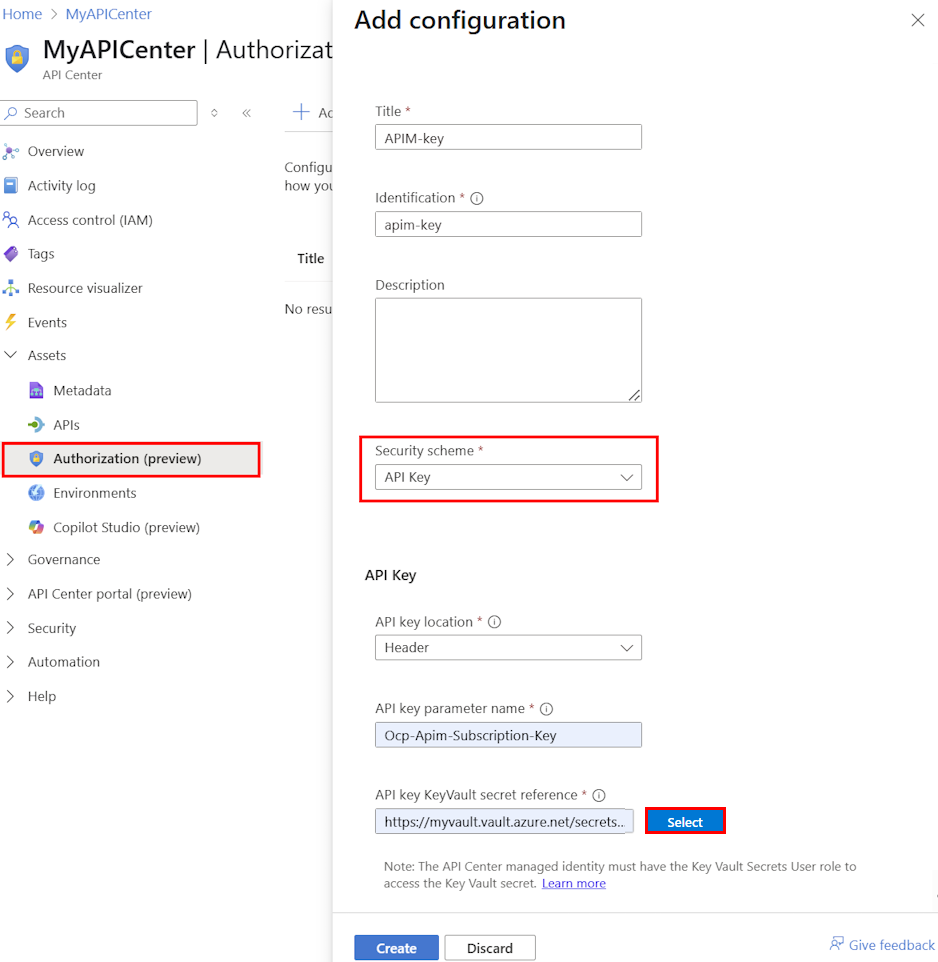
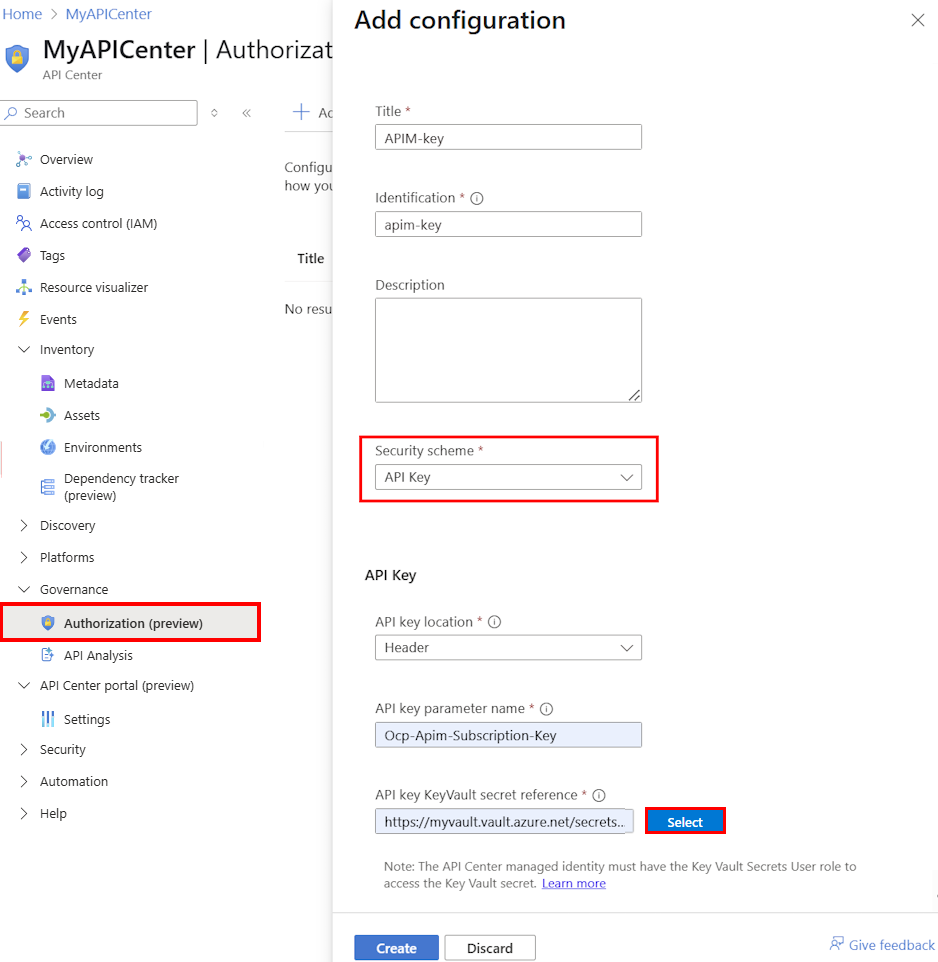
more mods

Changed region(s): [[0.0, 0.1559, 0.2783, 0.842]]

diff --git a/articles/api-center/authorize-api-access.md b/articles/api-center/authorize-api-access.md
@@ -4,7 +4,7 @@ description: Learn how to configure access to APIs in the Azure API Center inven
 
 ms.service: azure-api-center
 ms.topic: how-to
-ms.date: 02/12/2026
+ms.date: 02/24/2026
  
 ms.custom: 
 # Customer intent: As an API program manager, I want to store API authorization information in my API center and enable authorized users to test APIs in the API Center portal.
@@ -50,10 +50,10 @@ To manage the API key securely, store it in Azure Key Vault, and access the key 
 
 ### 2.  Add API key configuration in your API center
 
-1. In the [portal](https://azure.microsoft.com), navigate to your API center.
-1. In the left menu, under **Governance**, select **Authorization (preview)** > **+ Add configuration**.
+1. In the [portal](https://azure.microsoft.com), go to your API center.
+1. In the sidebar menu, under **Governance**, select **Authorization (preview)** > **+ Add configuration**.
 1. In the **Add configuration** page, set the values as follows:
-    <!-- :::image type="content" source="media/authorize-api-access/configure-api-key.png" alt-text="Screenshot of configuring an API key in the portal."::: -->
+    :::image type="content" source="media/authorize-api-access/configure-api-key.png" alt-text="Screenshot of configuring an API key in the portal.":::
 
     | **Setting**            | **Description**                                                                                                                                               |
     |-------------------------|---------------------------------------------------------------------------------------------------------------------------------------------------------------|
@@ -114,7 +114,7 @@ To manage the secret securely, store it in Azure Key Vault, and access the key v
 1. In the left menu, under **Governance**, select **Authorization (preview)** > **+ Add configuration**.
 1. In the **Add configuration** page, set the values as follows:
 
-    <!-- :::image type="content" source="media/authorize-api-access/configure-oauth.png" lightbox="media/authorize-api-access/configure-oauth.png" alt-text="Screenshot of configuring OAuth 2.0 in the portal."::: -->
+    :::image type="content" source="media/authorize-api-access/configure-oauth.png" lightbox="media/authorize-api-access/configure-oauth.png" alt-text="Screenshot of configuring OAuth 2.0 in the portal.":::
 
 
     > [!NOTE]
@@ -168,8 +168,7 @@ You can manage access by specific users or groups in your organization to an API
 > [!TIP]
 > You can also remove users or groups from the access policy. In the **Manage access** page, select **Delete** in the context (...) menu for the user or group.
 
-## Test API in API Center portal
-
+## Test the API in API Center portal
 
 You can use the API Center portal to test an API that you configured for authentication and user access. 
 

diff --git a/articles/api-center/tutorials/configure-environments-deployments.md b/articles/api-center/tutorials/configure-environments-deployments.md
@@ -4,7 +4,7 @@ description: Augment the API inventory in your API center by adding information 
 
 ms.service: azure-api-center
 ms.topic: tutorial
-ms.date: 02/12/2026
+ms.date: 02/24/2026
  
 #customer intent: As the owner of an Azure API center, I want a step by step introduction to adding API environments and deployments to my inventory.
 ---
@@ -34,9 +34,9 @@ Use your API center to keep track of your real-world API environments. For examp
 
 Here you add information about a fictitious Azure API Management environment to your API center. If you prefer, add information about one of your existing environments. Configure both your built-in metadata and any custom metadata that you defined in a [previous tutorial](add-metadata-properties.md).
 
-1. Sign in to the [Azure portal](https://portal.azure.com), then navigate to your API center.
+1. Sign in to the [Azure portal](https://portal.azure.com), then go to your API center.
 
-1. In the sidebar menu, under **Assets**, select **Environments** > **+ New environment**.
+1. In the sidebar menu, under **Inventory**, select **Environments** > **+ New environment**.
 
 1. On the **New environment** page, add the following information. If you previously defined the custom *Line of business* metadata or other metadata assigned to environments, you see them at the bottom of the page.
 
@@ -64,13 +64,13 @@ API center can also help you catalog your API deployments, the runtime environme
 
 Here you add a deployment by associating one of your APIs with the environment you created in the previous section. You configure both built-in metadata and any custom metadata that you defined.
 
-1. In the Azure portal, navigate to your API center.
+1. In the Azure portal, go to your API center.
 
 1. In the sidebar menu, under **Inventory**, select **Assets**.
 
 1. Select an API, for example, the *Conference API*.
 
-1. On the **Conference API** page, under **Details**, select **Deployments** > **+ Add deployment**.
+1. On the **Conference API** page, in the sidebar menu, select **Deployments** > **+ Add deployment**.
 
 1. In the **Add deployment** page, add the following information. If you previously defined the custom *Line of business* metadata or other metadata assigned to environments, you can see them at the bottom of the page.
 

diff --git a/articles/api-management/tutorials/link-api-center.md b/articles/api-management/tutorials/link-api-center.md
@@ -69,20 +69,20 @@ These steps show how to link an API Management instance to an API Center that al
 
 Use this section to verify the integration state and to view APIs that synchronized from API Management.
 
-1. In the [Azure portal](https://portal.azure.com), open the API Center resource.
-2. In the API Center left-hand menu, go to **Platforms** > **Integrations**. 
+1. In the [Azure portal](https://portal.azure.com), go to the API Center resource.
+2. In the API Center sidebar menu, go to **Platforms** > **Integrations**. 
     The state for the integration with API Management should say *Linked and syncing*. 
-1. To view synchronized APIs, go to **Assets** > **APIs**.<br />
+1. To view synchronized APIs, go to **Inventory** > **Assets**.<br />
     An icon appears indicating that the APIs are linked.
-    :::image type="content" source="media/link-api-center/api-center-menu.png" alt-text="An API Center instance in Azure portal with APIs emphasized in the left-hand menu and link icons emphasized in the main panel":::
+    :::image type="content" source="media/link-api-center/api-center-menu.png" alt-text="An API Center instance in Azure portal with Assets highlighted in the sidebar menu and link icons emphasized in the main panel":::
 
 ## Remove link to API Center
 
 Follow these steps to remove the link between API Management and the API Center or to delete the API Center resource.
 
-1. In the API Center resource, find the linked API Management instance.
-1. In the left-hand menu, go to **Platforms** > **Integrations**.
-2. Select the trash can icon to delete the link.
+1. In the API Center resource, go to **Platforms** > **Integrations**.
+1. Find the linked API Management instance.
+1. Select the trash can icon to delete the link.
 
 ## Clean up resources
 

diff --git a/articles/api-center/tutorials/register-apis.md b/articles/api-center/tutorials/register-apis.md
@@ -105,7 +105,7 @@ Here you add a version to one of your APIs:
     |**Version identification**|After you enter the preceding title, Azure API Center generates this identifier, which you can override.| Azure resource name for the version |
     |**Version lifecycle**  | Make a selection from the dropdown, such as **Production**. | Lifecycle stage of the API version |
 
-1.  under **Select a specification**, add an API definition, enter or select the following information. Azure API Center supports definitions in common text specification formats, such as OpenAPI 2 and 3 for REST APIs.
+1. Under **Select a specification**, add an API definition by entering or selecting the following information. Azure API Center supports definitions in common text specification formats, such as OpenAPI 2 and 3 for REST APIs.
 
     |Setting|Value|Description|
     |-------|-----|-----------|
@@ -118,7 +118,7 @@ Here you add a version to one of your APIs:
 
     :::image type="content" source="./media/register-apis/add-definition.png" alt-text="Screenshot of adding an API definition in the portal." lightbox="./media/register-apis/add-definition.png" :::
 
-1. Leave the setting under **Add a deployment** unselected for now. You configure a deployment in the next tutorial, [Add environments and deployments for APIs](./configure-environments-deployments.md).
+1. Under **Add a deployment**, leave the setting unselected for now. You configure a deployment in the next tutorial, [Add environments and deployments for APIs](./configure-environments-deployments.md).
 
 1. Select **Create**.
 
